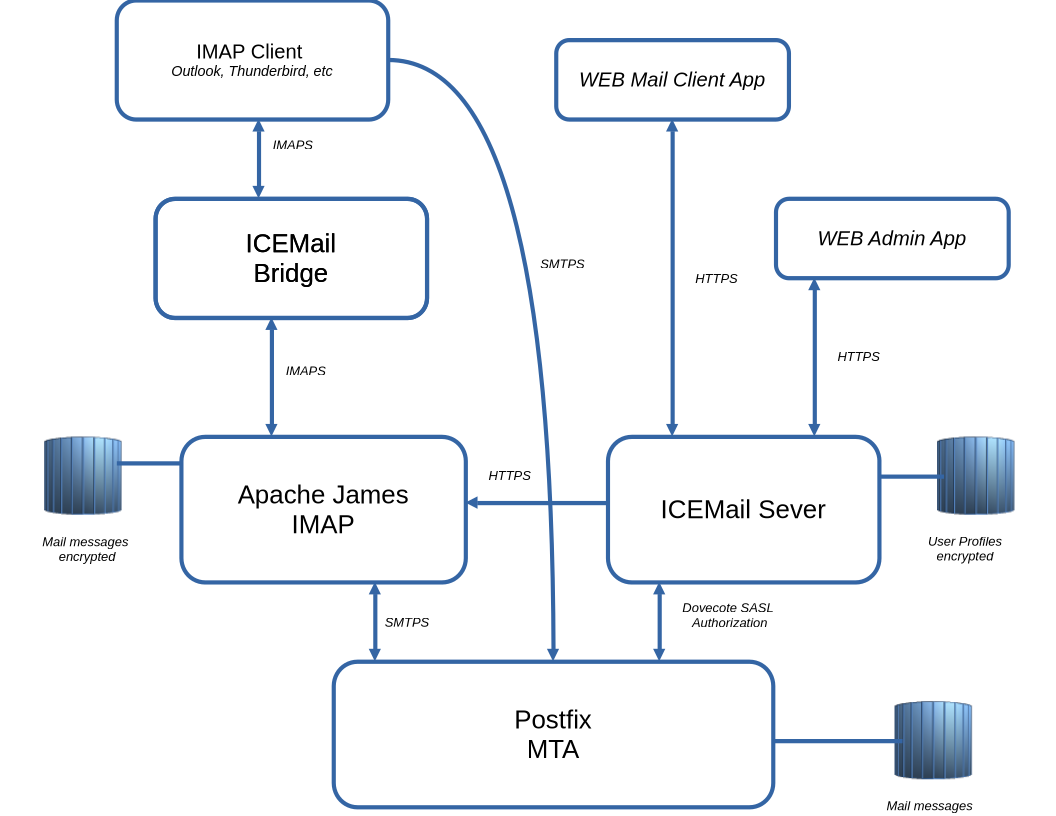
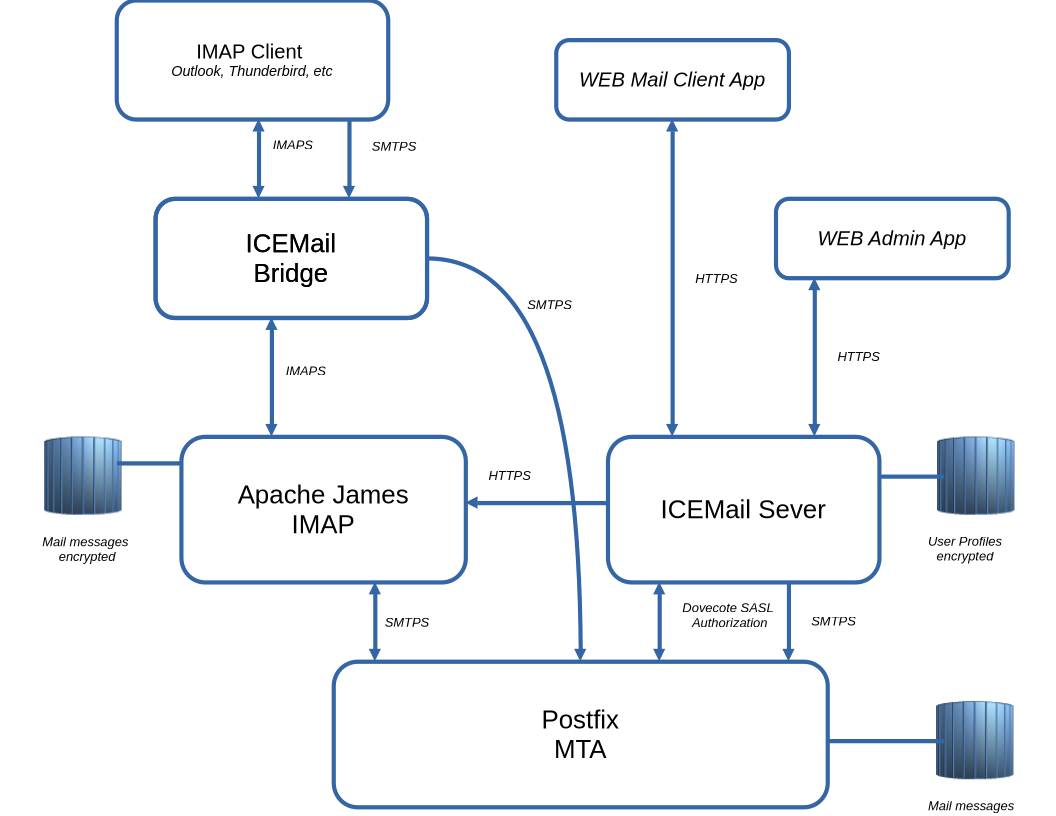
update markdown documents

diff --git a/doc/architecture.md b/doc/architecture.md
@@ -52,26 +52,24 @@ The system consists of four main components:
  │  │  IMAP proxy + SMTP proxy        │ │                                  │
  │  └────────┬──────────┬─────────────┘ │                                  │
  └───────────┼──────────┼───────────────┼──────────────────────────────────┘
-             │ IMAPS    │ SMTP          │ HTTPS
+             │ IMAPS    │ SMTP:587      │ HTTPS
+             │ :993     │               │
  ┌───────────┼──────────┼───────────────┼──────────────────────────────────┐
- │  Server                              │                                  │
- │           │          │               │                                  │
- │  ┌────────▼────────────────┐  ┌──────▼────────────────────────────────┐ │
- │  │  James (IMAP server)    │  │  ICEMail Server                       │ │
- │  │                         │  │  REST API  :8282 (HTTPS)              │ │
- │  │  IMAPS      :993  ◄─────┼──┤  Web App   :8282 (HTTPS)  (IMAPS)    │ │
- │  │  LMTP        :24  ◄──┐  │  │  After-queue filter :10026/:10027    │ │
- │  │  WebAdmin  :8000  ◄──┼──┤  │  SASL server        :12345           │ │
- │  │                       │  │  │  SQLite3 user DB                     │ │
- │  │  userSync  :8282 ─────┼──┼──►  /api/users  (HTTPS)                │ │
- │  └─────────────────────────┘  └───────────────────────────────────────┘ │
- │                         ▲                                               │
- │  ┌────────────────┐      │                                              │
- │  │  Postfix       │      │ SMTP :10026/:10027  after-queue filter       │
- │  │  MTA           ├──────┘                                              │
- │  │  SMTP :25/:587 │                                                     │
- │  │  LMTP ─────────┼──────────────────────────────► James :24           │
- │  └────────────────┘                                                     │
+ │  Server   │          │               │                                  │
+ │           │          ▼               │                                  │
+ │  ┌────────▼──────┐  ┌─────────────┐  ┌──────▼────────────────────────┐  │
+ │  │  James        │  │  Postfix    │  │  ICEMail Server               │  │
+ │  │  (IMAP store) │  │  MTA        │  │  REST API  :443 (HTTPS)       │  │
+ │  │               │  │  :25/:587   │  │  Web App   :443 (HTTPS)       │  │
+ │  │  IMAPS  :993 ◄┼──┤             │  │  After-queue :10026/:10027    │  │
+ │  │  LMTP    :24 ◄┼──┤◄────────────┼──┤  SASL server :12345          │  │
+ │  │  WebAdmin:8000◄┼──┤  LMTP :24  │  │  SQLite3 user DB              │  │
+ │  │               │  │             │  │                               │  │
+ │  │  userSync ────┼──┼─────────────┼──►  /api/users  (HTTPS)         │  │
+ │  └───────────────┘  │             │  └───────────────────────────────┘  │
+ │                     │◄────────────┤  after-queue filter :10026/:10027   │
+ │                     │  SMTP:10027 │  (re-inject encrypted mail)         │
+ │                     └─────────────┘                                     │
  └──────────────────────────────────────────────────────────────────────────┘
 ```
 
@@ -83,7 +81,7 @@ The central server component. It acts as the REST API hub, web application serve
 
 **Source:** `ICEMail/ICE-Server`
 **Technology:** Java 21, Javalin (Jetty), SQLite3, BouncyCastle PGP, Log4j2
-**Default port:** 8282 (HTTPS, TLS via PEM cert/key)
+**Default port:** 443 (HTTPS, TLS via PEM cert/key)
 
 ### 1.1 User Profile Database
 
@@ -98,29 +96,63 @@ The ICEMail Server exposes a REST API over HTTPS used by all other components:
 | `/register` | POST | Public account self-registration |
 | `/login` | POST | Authenticate and establish a session |
 | `/confirm` | POST | Confirm account via email link |
+| `/change_password` | POST | Change password and re-encrypt private key (authenticated session) |
+| `/decrypt-message` | GET | Retrieve an ICE-encrypted message for external recipient decryption |
+| `/altcha/challenge` | GET | Generate an ALTCHA proof-of-work challenge for bot protection |
 | `/api/users` | GET | Returns all user credentials (username + hashed password) — used by James for user sync |
-| `/api/admin` | GET | Returns admin credentials |
+| `/api/admin` | GET | Returns admin credentials — used by James for webadmin auth sync |
 | `/admin/users` | POST | List users (admin session required) |
-| `/admin/handleUser` | POST | Block or delete a user |
-| `/admin/createUser` | POST | Admin-create a confirmed user |
-| `/admin/imap/*` | GET | Proxy to James WebAdmin REST API |
-| `/web/*` | GET/POST | Web mail API (authenticated session) |
+| `/admin/handleUser` | POST | Block, delete or confirm a user (admin session required) |
+| `/admin/createUser` | POST | Admin-create a pre-confirmed user |
+| `/admin/imap/users` | GET | Proxy — James WebAdmin user list |
+| `/admin/imap/domains` | GET | Proxy — James WebAdmin domain list |
+| `/admin/imap/mailboxes` | GET | Proxy — James WebAdmin mailbox list |
+| `/admin/imap/mailQueues` | GET | Proxy — James WebAdmin mail queues |
+| `/admin/imap/mailRepositories` | GET | Proxy — James WebAdmin mail repositories |
+| `/admin/imap/deadLetters` | GET | Proxy — James WebAdmin dead-letter queue |
+| `/web/mailboxes` | GET | List IMAP mailboxes/folders (authenticated session) |
+| `/web/messages` | GET | List messages in a mailbox (authenticated session) |
+| `/web/message` | GET | Fetch a single message body (authenticated session) |
+| `/web/attachment` | GET | Download a message attachment (authenticated session) |
+| `/web/message/delete` | POST | Delete a message (authenticated session) |
+| `/web/compose/send` | POST | Send a composed message via SMTP (authenticated session) |
+| `/web/profile` | GET | Returns the user's encrypted private key for client-side decryption |
+| `/web/contacts` | GET | List the user's contacts (authenticated session) |
+| `/web/contacts/create` | POST | Add a contact (authenticated session) |
+| `/web/contacts/update` | POST | Update a contact (authenticated session) |
+| `/web/contacts/delete` | POST | Delete a contact (authenticated session) |
 
 ### 1.3 Web Interface
 
-A single-page web application served as static files (`WebContent/`) from Javalin. Pages include:
+A web application served as static files (`WebContent/`) from Javalin. Pages include:
 
+**Public pages (no session required):**
 - **`login.html`** — User login
 - **`create_account.html`** — Self-registration (if enabled)
 - **`confirm.html`** — Account email confirmation
-- **`web/index.html`** — Main web mail interface (mailboxes, message list, compose)
-- **`web/message.html`** — Individual message view with client-side PGP decryption
 - **`decrypt.html`** — Decrypt an ICE-encrypted message sent to an external recipient
-- **`admin/index.html`** — Admin panel
-- **`admin/users.html`** — User management
-- **`admin/imap-*.html`** — IMAP server administration panels (proxied to James WebAdmin)
+- **`aes-tool.html`** — Standalone AES-256 encryption/decryption utility
 
-JavaScript libraries used client-side: `openpgp.js` (PGP operations), `crypto-js` (symmetric crypto), `argon2-bundled` (key derivation).
+**Web mail (authenticated session required):**
+- **`web/index.html`** — Main web mail interface (navigation, compose button, contacts)
+- **`web/mailboxes.html`** — Mailbox/folder list
+- **`web/messages.html`** — Message list for a selected mailbox
+- **`web/message.html`** — Individual message view with client-side PGP decryption
+- **`change_password.html`** — Change password with client-side PGP private key re-encryption
+
+**Admin panel (admin session required):**
+- **`admin/index.html`** — Admin dashboard
+- **`admin/users.html`** — User listing, block/delete/confirm/create actions
+- **`admin/create_user.html`** — Admin create user form
+- **`admin/statistics.html`** — Server statistics
+- **`admin/imap-users.html`** — James user list (proxied)
+- **`admin/imap-domains.html`** — James domain list (proxied)
+- **`admin/imap-mailboxes.html`** — James mailbox list (proxied)
+- **`admin/imap-mailqueues.html`** — James mail queues (proxied)
+- **`admin/imap-mailrepositories.html`** — James mail repositories (proxied)
+- **`admin/imap-deadletters.html`** — James dead-letter queue (proxied)
+
+JavaScript libraries used client-side: `openpgp.js` (PGP operations), `crypto-js` (symmetric crypto), `argon2-bundled` (PBKDF2 key derivation).
 
 ### 1.4 Postfix After-Queue Filter
 
@@ -145,14 +177,6 @@ When a user submits mail via SMTP (port 587), Postfix asks the SASL server wheth
 This allows Postfix to authenticate ICEMail users for SMTP submission without needing its own user database or PAM.
 
 An `internal_mailer` service account (used by the ICEMail Server itself for sending confirmation emails) can also be registered with the SASL server so it can authenticate against the local Postfix SMTP relay.
-
-### 1.6 Admin Web Interface
-
-Accessible at `/admin/` (requires admin session). Provides:
-
-- User listing with filter
-- Create / block / delete users
-- Proxy views into James WebAdmin: domains, mailboxes, mail queues, mail repositories, dead-letter queues
 
 ---
 
@@ -228,8 +252,8 @@ The configuration file is named `mailbridge-<hostname>.json` so the same set of 
 
 ## 3. IMAP Server — Apache James (`james-project`)
 
-**Source:** `../james-project` (relative to the ICEMail project)
-**Technology:** Forked/enhanced Apache James — a full-featured Java mail server
+**Source:** `IMAP-Apache-James` (separate repository)
+**Technology:** Scaled-down version of Apache James
 
 The James server acts as the IMAP store. It stores mailboxes, delivers and serves messages, and handles all IMAP protocol traffic. It has **no knowledge of the encryption** — from its perspective it is simply storing and serving opaque message content that happens to contain PGP ciphertext.
 
@@ -240,7 +264,7 @@ The James server acts as the IMAP store. It stores mailboxes, delivers and serve
 | IMAPS | 993 | ICEMail Bridge, ICEMail Server | IMAP over TLS. The Bridge connects on behalf of mail clients; the ICEMail Server connects on behalf of browser sessions (web mail) |
 | LMTP | 24 | Postfix | Postfix **pushes** encrypted mail to James after the after-queue filter. James listens and stores the message — it does not fetch or pull from Postfix |
 | WebAdmin REST | 8000 | ICEMail Server | HTTP REST API bound to 127.0.0.1. Used by the ICEMail Server to proxy admin operations (list domains, mailboxes, queues) to the browser |
-| HTTPS user sync | 8282 (outbound) | James | James periodically polls the ICEMail Server's `/api/users` endpoint to synchronise user accounts and hashed passwords |
+| HTTPS user sync | 443 (outbound) | James | James periodically polls the ICEMail Server's `/api/users` endpoint to synchronise user accounts and hashed passwords |
 
 **User synchronisation:**
 James does not have its own user registration UI. Instead it periodically polls the ICEMail Server's `/api/users` endpoint to synchronise user accounts (including hashed passwords). This means user creation in ICEMail is automatically reflected in James without manual administration.
@@ -447,7 +471,7 @@ Browser                    ICEMail Server        Postfix         James
    │   {to, subject, body}        │                  │               │
    │                              │                  │               │
    │             Server sends via SMTP (port 587)    │               │
-   │             AUTH with internal mailer account ─►│               │
+   │             No auth (localhost in mynetworks) ──►│               │
    │             STARTTLS, trust-all cert             │               │
    │                              │                  │               │
    │                              │   Postfix receives plain mail     │
@@ -539,11 +563,11 @@ Thunderbird            ICEMail Bridge            James (IMAP)       ICEMail Serv
 | ICEMail Bridge | James | IMAPS | 993 | Fetch mailboxes and messages for mail client; trust-all TLS |
 | ICEMail Server | James | IMAPS | 993 | Fetch mailboxes and messages for browser web mail sessions; trust-all TLS |
 | ICEMail Bridge | Postfix | SMTP+STARTTLS | 587 | Mail submission from mail client |
-| Browser | ICEMail Server | HTTPS | 8282 | Web app + API |
-| ICEMail Server | Postfix | SMTP+STARTTLS | 587 | Send account confirmation emails |
+| Browser | ICEMail Server | HTTPS | 443 | Web app + API |
+| ICEMail Server | Postfix | SMTP+STARTTLS | 587 | Mail submission (confirmation emails + compose/send); no SMTP auth — localhost is in mynetworks |
 | ICEMail Server | James WebAdmin | HTTP | 8000 | Proxy admin operations to browser (mailboxes, queues, domains) |
 | Postfix | ICEMail Server (after-queue filter) | SMTP | 10026 | Postfix routes all inbound mail into the filter |
 | ICEMail Server (after-queue filter) | Postfix | SMTP | 10027 | Encrypted mail re-injected back to Postfix for final delivery |
 | Postfix | James | LMTP | 24 | Postfix **pushes** encrypted mail to James; James listens and does not pull |
 | Postfix | ICEMail Server | TCP (Dovecot SASL) | 12345 | SMTP AUTH delegation — Postfix asks ICEMail Server to validate credentials |
-| James | ICEMail Server | HTTPS | 8282 | James polls `/api/users` to synchronise user accounts |
+| James | ICEMail Server | HTTPS | 443 | James polls `/api/users` to synchronise user accounts |
